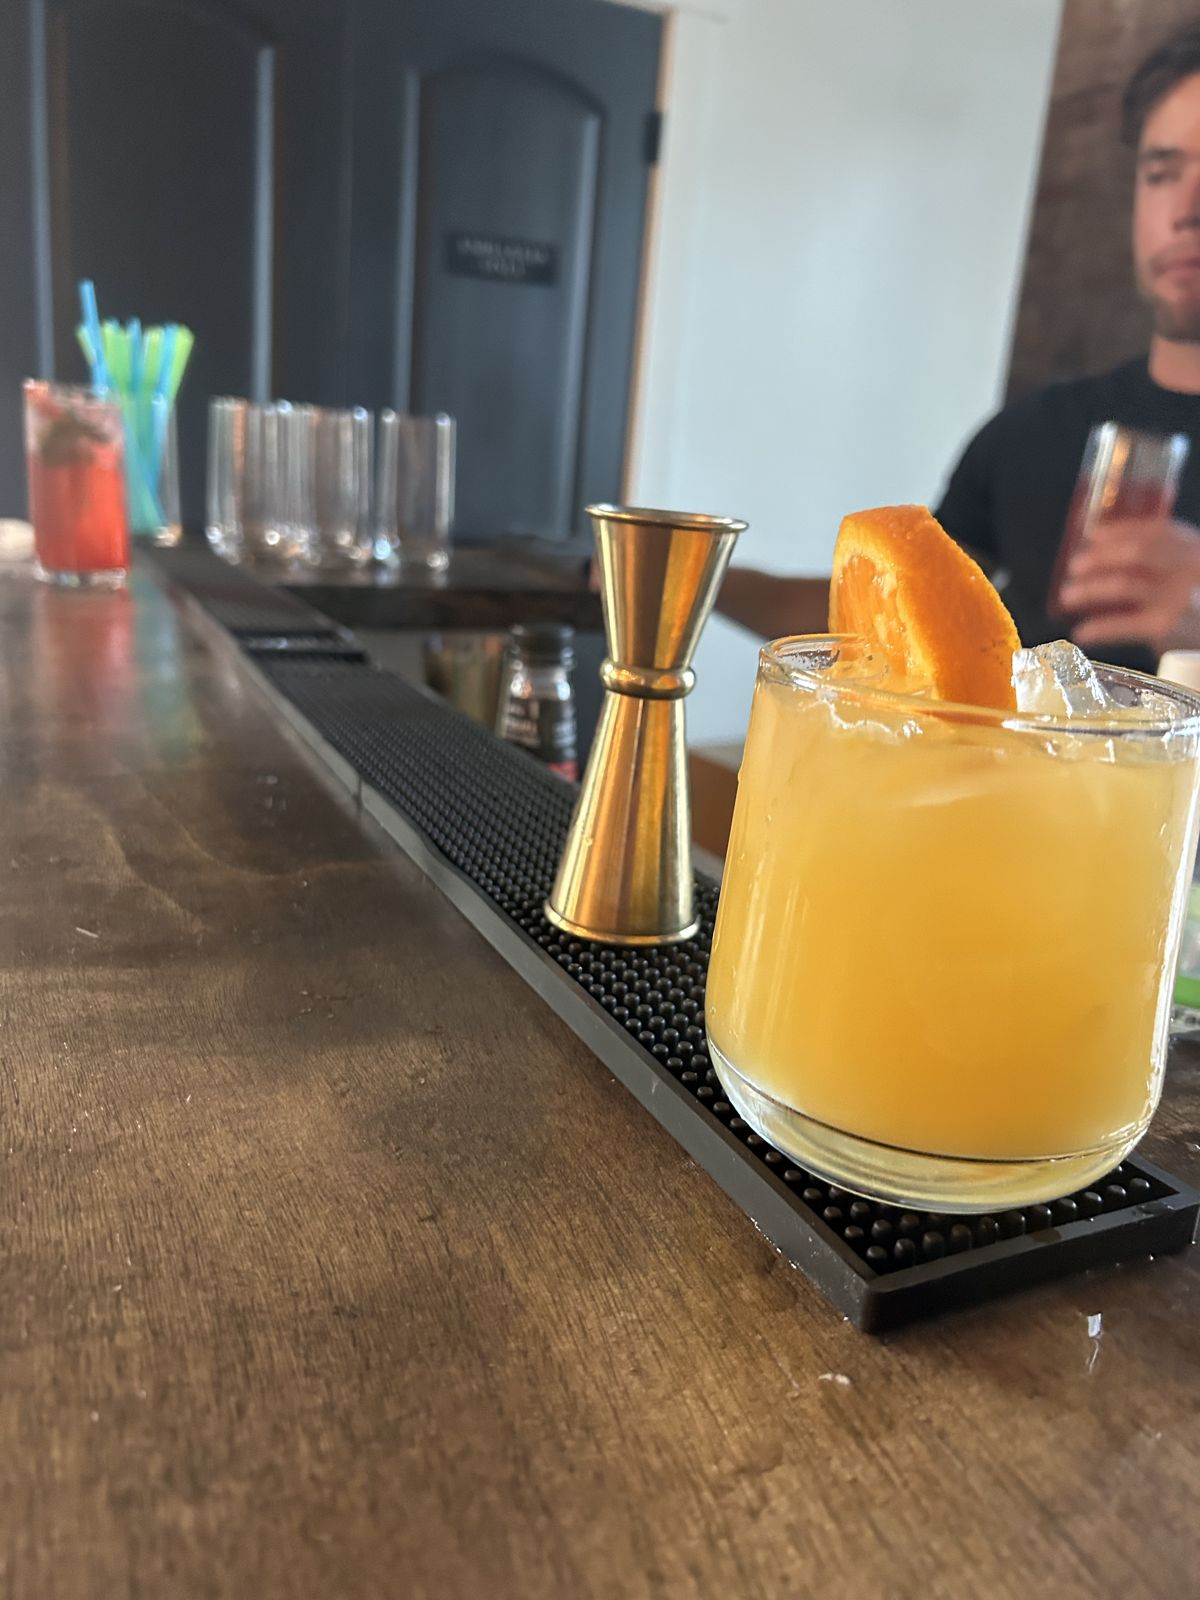
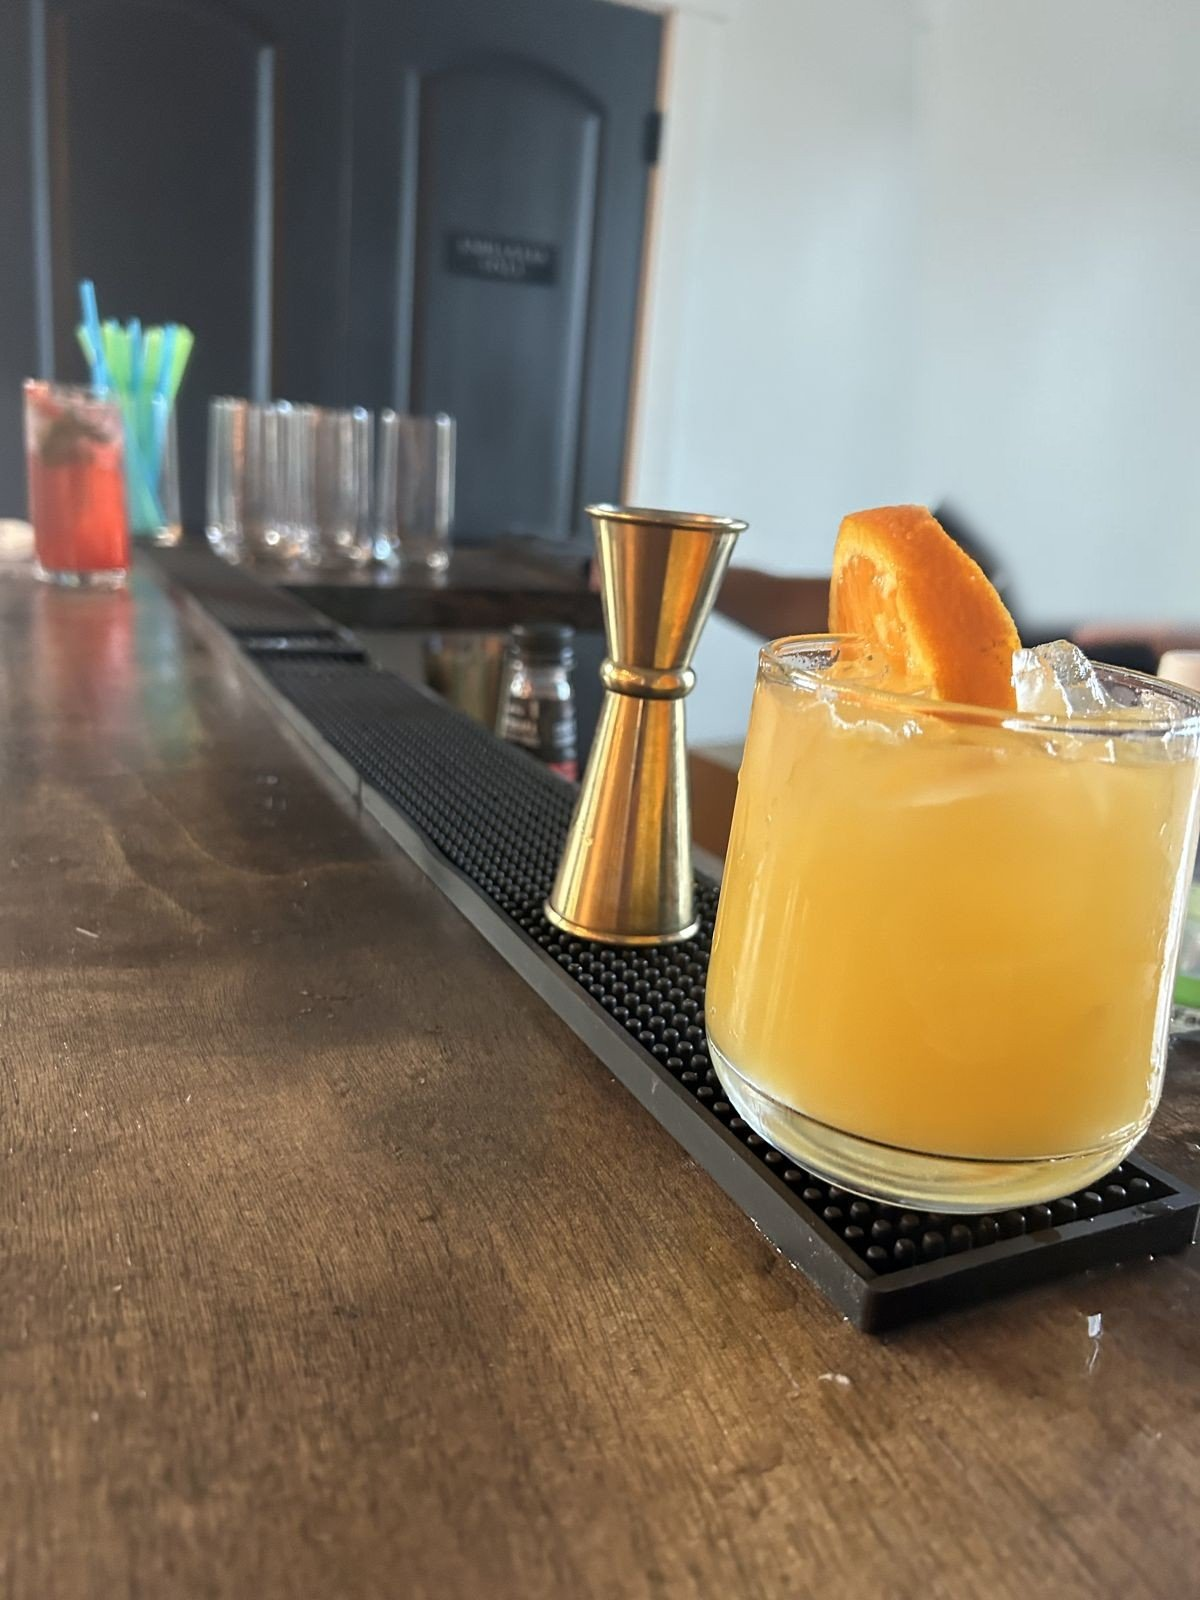
Gallery cleanup and Jake's phone and email
Remove the guy from the orange drink photo, drop the MM Skin pop-up
photo from the gallery, and add (928) 266-8863 and jakebeazer@gmail.com
to the contact section, footer and business info.

Claude-Session: https://claude.ai/code/session_019EJqkioRRRJ1GWxis8XrbV

Changed region(s): [[0.7708, 0.0, 1.0, 0.4062]]

diff --git a/gallery.html b/gallery.html
@@ -64,7 +64,6 @@
       <figure><video src="stir-loop.mp4" poster="images/stir-loop-poster.jpg" width="540" height="960" autoplay muted loop playsinline aria-label="A purple berry mocktail being stirred at a wedding"></video></figure>
       <figure><img src="images/couple-toast.jpg" alt="The bride and groom holding up their mocktails at the reception" width="1146" height="1600" loading="lazy"></figure>
       <figure><img src="images/cherry-sour.jpg" alt="Cherry Parson with a cherry garnish" width="1066" height="1600" loading="lazy"><figcaption>Cherry Parson</figcaption></figure>
-      <figure><img src="images/popup-bar.jpg" alt="Our bartender serving at a pop-up bar outside a storefront" width="1200" height="1600" loading="lazy"></figure>
       <figure><img src="images/berry-highball.jpg" alt="Lavender Lime Cooler with dried lavender and a lime wheel" width="1023" height="1537" loading="lazy"><figcaption>Lavender Lime Cooler</figcaption></figure>
       <figure><img src="images/glasses-toast.jpg" alt="Guests clinking mocktail glasses with pink straws" width="1600" height="1143" loading="lazy"></figure>
       <figure><img src="images/mint-spritz.jpg" alt="Mint Mojito with fresh mint and lime" width="1066" height="1600" loading="lazy"><figcaption>Mint Mojito</figcaption></figure>
@@ -72,8 +71,8 @@
       <figure><img src="images/dragonfruit-toast.jpg" alt="A guest holding a pink mocktail with a dragonfruit slice" width="1170" height="1552" loading="lazy"></figure>
       <figure><img src="images/bar-citrus.jpg" alt="A yellow citrus mocktail with an orange slice on the bar" width="1200" height="1600" loading="lazy"></figure>
       <figure><video src="berry-loop.mp4" poster="images/berry-loop-poster.jpg" width="540" height="960" autoplay muted loop playsinline aria-label="A blackberry garnish being set on a dark berry mocktail"></video></figure>
-      <figure><img src="images/sunset-pour.jpg" alt="A bartender straining an orange-red mocktail" width="1066" height="1600" loading="lazy"></figure>
       <figure><img src="images/jacob.jpg" alt="Jacob, our founder, holding a mocktail" width="640" height="800" loading="lazy"></figure>
+      <figure><img src="images/sunset-pour.jpg" alt="A bartender straining an orange-red mocktail" width="1066" height="1600" loading="lazy"></figure>
     </div>
   </section>
 
@@ -90,8 +89,8 @@
         </ul>
         <dl>
           <dt>Instagram</dt><dd><a class="ig-inline" href="https://www.instagram.com/utahmocktailco/"><svg class="ig" viewBox="0 0 24 24" width="18" height="18" aria-hidden="true" fill="none" stroke="currentColor" stroke-width="1.6"><rect x="3" y="3" width="18" height="18" rx="5"/><circle cx="12" cy="12" r="4.2"/><circle cx="17.4" cy="6.6" r="1.1" fill="currentColor" stroke="none"/></svg>@utahmocktailco</a></dd>
-          <dt>Email</dt><dd>hello@utahmocktail.co</dd>
-          <dt>Phone</dt><dd><span class="ph">[phone]</span></dd>
+          <dt>Email</dt><dd><a href="mailto:jakebeazer@gmail.com">jakebeazer@gmail.com</a></dd>
+          <dt>Phone</dt><dd><a href="tel:+19282668863">(928) 266-8863</a></dd>
         </dl>
       </div>
       <form id="inquiry" class="form-card" novalidate>
@@ -120,7 +119,7 @@
     <a class="ig-inline" href="https://www.instagram.com/utahmocktailco/"><svg class="ig" viewBox="0 0 24 24" width="18" height="18" aria-hidden="true" fill="none" stroke="currentColor" stroke-width="1.6"><rect x="3" y="3" width="18" height="18" rx="5"/><circle cx="12" cy="12" r="4.2"/><circle cx="17.4" cy="6.6" r="1.1" fill="currentColor" stroke="none"/></svg>@utahmocktailco</a>
   </div>
   <div class="wrap">
-    <div><strong>Utah Mocktail Co.</strong>Mobile mocktail bar based in Utah County.<br>hello@utahmocktail.co</div>
+    <div><strong>Utah Mocktail Co.</strong>Mobile mocktail bar based in Utah County.<br><a href="tel:+19282668863">(928) 266-8863</a><br><a href="mailto:jakebeazer@gmail.com">jakebeazer@gmail.com</a></div>
     <div><strong>Events</strong><a href="weddings.html">Weddings</a><br><a href="corporate.html">Corporate events</a><br><a href="#book">Showers, birthdays and graduations</a></div>
     <div><strong>Where we pour</strong>Utah County, Salt Lake, Davis, Weber, Summit, Wasatch and Southern Utah</div>
     <div><strong>&nbsp;</strong>© 2026 Utah Mocktail Co.</div>

diff --git a/index.html b/index.html
@@ -18,7 +18,8 @@
   "name": "Utah Mocktail Co.",
   "description": "Mobile mocktail bar for weddings, corporate events and parties in Utah.",
   "image": "images/capitol-bar.jpg",
-  "email": "hello@utahmocktail.co",
+  "email": "jakebeazer@gmail.com",
+  "telephone": "+1-928-266-8863",
   "priceRange": "$650-$1,995+",
   "founder": {"@type": "Person", "name": "Jacob"},
   "address": {"@type": "PostalAddress", "addressRegion": "UT", "addressCountry": "US"},
@@ -285,8 +286,8 @@
         </ul>
         <dl>
           <dt>Instagram</dt><dd><a class="ig-inline" href="https://www.instagram.com/utahmocktailco/"><svg class="ig" viewBox="0 0 24 24" width="18" height="18" aria-hidden="true" fill="none" stroke="currentColor" stroke-width="1.6"><rect x="3" y="3" width="18" height="18" rx="5"/><circle cx="12" cy="12" r="4.2"/><circle cx="17.4" cy="6.6" r="1.1" fill="currentColor" stroke="none"/></svg>@utahmocktailco</a></dd>
-          <dt>Email</dt><dd>hello@utahmocktail.co</dd>
-          <dt>Phone</dt><dd><span class="ph">[phone]</span></dd>
+          <dt>Email</dt><dd><a href="mailto:jakebeazer@gmail.com">jakebeazer@gmail.com</a></dd>
+          <dt>Phone</dt><dd><a href="tel:+19282668863">(928) 266-8863</a></dd>
         </dl>
       </div>
       <form id="inquiry" class="form-card" novalidate>
@@ -330,7 +331,7 @@
     <a class="ig-inline" href="https://www.instagram.com/utahmocktailco/"><svg class="ig" viewBox="0 0 24 24" width="18" height="18" aria-hidden="true" fill="none" stroke="currentColor" stroke-width="1.6"><rect x="3" y="3" width="18" height="18" rx="5"/><circle cx="12" cy="12" r="4.2"/><circle cx="17.4" cy="6.6" r="1.1" fill="currentColor" stroke="none"/></svg>@utahmocktailco</a>
   </div>
   <div class="wrap">
-    <div><strong>Utah Mocktail Co.</strong>Mobile mocktail bar based in Utah County.<br>hello@utahmocktail.co</div>
+    <div><strong>Utah Mocktail Co.</strong>Mobile mocktail bar based in Utah County.<br><a href="tel:+19282668863">(928) 266-8863</a><br><a href="mailto:jakebeazer@gmail.com">jakebeazer@gmail.com</a></div>
     <div><strong>Events</strong><a href="weddings.html">Weddings</a><br><a href="corporate.html">Corporate events</a><br><a href="#book">Showers, birthdays and graduations</a></div>
     <div><strong>Where we pour</strong>Utah County, Salt Lake, Davis, Weber, Summit, Wasatch and Southern Utah</div>
     <div><strong>&nbsp;</strong>© 2026 Utah Mocktail Co.</div>

diff --git a/corporate.html b/corporate.html
@@ -105,8 +105,8 @@
         </ul>
         <dl>
           <dt>Instagram</dt><dd><a class="ig-inline" href="https://www.instagram.com/utahmocktailco/"><svg class="ig" viewBox="0 0 24 24" width="18" height="18" aria-hidden="true" fill="none" stroke="currentColor" stroke-width="1.6"><rect x="3" y="3" width="18" height="18" rx="5"/><circle cx="12" cy="12" r="4.2"/><circle cx="17.4" cy="6.6" r="1.1" fill="currentColor" stroke="none"/></svg>@utahmocktailco</a></dd>
-          <dt>Email</dt><dd>hello@utahmocktail.co</dd>
-          <dt>Phone</dt><dd><span class="ph">[phone]</span></dd>
+          <dt>Email</dt><dd><a href="mailto:jakebeazer@gmail.com">jakebeazer@gmail.com</a></dd>
+          <dt>Phone</dt><dd><a href="tel:+19282668863">(928) 266-8863</a></dd>
         </dl>
       </div>
       <form id="inquiry" class="form-card" novalidate>
@@ -135,7 +135,7 @@
     <a class="ig-inline" href="https://www.instagram.com/utahmocktailco/"><svg class="ig" viewBox="0 0 24 24" width="18" height="18" aria-hidden="true" fill="none" stroke="currentColor" stroke-width="1.6"><rect x="3" y="3" width="18" height="18" rx="5"/><circle cx="12" cy="12" r="4.2"/><circle cx="17.4" cy="6.6" r="1.1" fill="currentColor" stroke="none"/></svg>@utahmocktailco</a>
   </div>
   <div class="wrap">
-    <div><strong>Utah Mocktail Co.</strong>Mobile mocktail bar based in Utah County.<br>hello@utahmocktail.co</div>
+    <div><strong>Utah Mocktail Co.</strong>Mobile mocktail bar based in Utah County.<br><a href="tel:+19282668863">(928) 266-8863</a><br><a href="mailto:jakebeazer@gmail.com">jakebeazer@gmail.com</a></div>
     <div><strong>Events</strong><a href="weddings.html">Weddings</a><br><a href="corporate.html">Corporate events</a><br><a href="#book">Showers, birthdays and graduations</a></div>
     <div><strong>Where we pour</strong>Utah County, Salt Lake, Davis, Weber, Summit, Wasatch and Southern Utah</div>
     <div><strong>&nbsp;</strong>© 2026 Utah Mocktail Co.</div>

diff --git a/packages.html b/packages.html
@@ -151,8 +151,8 @@
         </ul>
         <dl>
           <dt>Instagram</dt><dd><a class="ig-inline" href="https://www.instagram.com/utahmocktailco/"><svg class="ig" viewBox="0 0 24 24" width="18" height="18" aria-hidden="true" fill="none" stroke="currentColor" stroke-width="1.6"><rect x="3" y="3" width="18" height="18" rx="5"/><circle cx="12" cy="12" r="4.2"/><circle cx="17.4" cy="6.6" r="1.1" fill="currentColor" stroke="none"/></svg>@utahmocktailco</a></dd>
-          <dt>Email</dt><dd>hello@utahmocktail.co</dd>
-          <dt>Phone</dt><dd><span class="ph">[phone]</span></dd>
+          <dt>Email</dt><dd><a href="mailto:jakebeazer@gmail.com">jakebeazer@gmail.com</a></dd>
+          <dt>Phone</dt><dd><a href="tel:+19282668863">(928) 266-8863</a></dd>
         </dl>
       </div>
       <form id="inquiry" class="form-card" novalidate>
@@ -181,7 +181,7 @@
     <a class="ig-inline" href="https://www.instagram.com/utahmocktailco/"><svg class="ig" viewBox="0 0 24 24" width="18" height="18" aria-hidden="true" fill="none" stroke="currentColor" stroke-width="1.6"><rect x="3" y="3" width="18" height="18" rx="5"/><circle cx="12" cy="12" r="4.2"/><circle cx="17.4" cy="6.6" r="1.1" fill="currentColor" stroke="none"/></svg>@utahmocktailco</a>
   </div>
   <div class="wrap">
-    <div><strong>Utah Mocktail Co.</strong>Mobile mocktail bar based in Utah County.<br>hello@utahmocktail.co</div>
+    <div><strong>Utah Mocktail Co.</strong>Mobile mocktail bar based in Utah County.<br><a href="tel:+19282668863">(928) 266-8863</a><br><a href="mailto:jakebeazer@gmail.com">jakebeazer@gmail.com</a></div>
     <div><strong>Events</strong><a href="weddings.html">Weddings</a><br><a href="corporate.html">Corporate events</a><br><a href="#book">Showers, birthdays and graduations</a></div>
     <div><strong>Where we pour</strong>Utah County, Salt Lake, Davis, Weber, Summit, Wasatch and Southern Utah</div>
     <div><strong>&nbsp;</strong>© 2026 Utah Mocktail Co.</div>

diff --git a/weddings.html b/weddings.html
@@ -107,8 +107,8 @@
         </ul>
         <dl>
           <dt>Instagram</dt><dd><a class="ig-inline" href="https://www.instagram.com/utahmocktailco/"><svg class="ig" viewBox="0 0 24 24" width="18" height="18" aria-hidden="true" fill="none" stroke="currentColor" stroke-width="1.6"><rect x="3" y="3" width="18" height="18" rx="5"/><circle cx="12" cy="12" r="4.2"/><circle cx="17.4" cy="6.6" r="1.1" fill="currentColor" stroke="none"/></svg>@utahmocktailco</a></dd>
-          <dt>Email</dt><dd>hello@utahmocktail.co</dd>
-          <dt>Phone</dt><dd><span class="ph">[phone]</span></dd>
+          <dt>Email</dt><dd><a href="mailto:jakebeazer@gmail.com">jakebeazer@gmail.com</a></dd>
+          <dt>Phone</dt><dd><a href="tel:+19282668863">(928) 266-8863</a></dd>
         </dl>
       </div>
       <form id="inquiry" class="form-card" novalidate>
@@ -137,7 +137,7 @@
     <a class="ig-inline" href="https://www.instagram.com/utahmocktailco/"><svg class="ig" viewBox="0 0 24 24" width="18" height="18" aria-hidden="true" fill="none" stroke="currentColor" stroke-width="1.6"><rect x="3" y="3" width="18" height="18" rx="5"/><circle cx="12" cy="12" r="4.2"/><circle cx="17.4" cy="6.6" r="1.1" fill="currentColor" stroke="none"/></svg>@utahmocktailco</a>
   </div>
   <div class="wrap">
-    <div><strong>Utah Mocktail Co.</strong>Mobile mocktail bar based in Utah County.<br>hello@utahmocktail.co</div>
+    <div><strong>Utah Mocktail Co.</strong>Mobile mocktail bar based in Utah County.<br><a href="tel:+19282668863">(928) 266-8863</a><br><a href="mailto:jakebeazer@gmail.com">jakebeazer@gmail.com</a></div>
     <div><strong>Events</strong><a href="weddings.html">Weddings</a><br><a href="corporate.html">Corporate events</a><br><a href="#book">Showers, birthdays and graduations</a></div>
     <div><strong>Where we pour</strong>Utah County, Salt Lake, Davis, Weber, Summit, Wasatch and Southern Utah</div>
     <div><strong>&nbsp;</strong>© 2026 Utah Mocktail Co.</div>

diff --git a/team.html b/team.html
@@ -95,8 +95,8 @@
         </ul>
         <dl>
           <dt>Instagram</dt><dd><a class="ig-inline" href="https://www.instagram.com/utahmocktailco/"><svg class="ig" viewBox="0 0 24 24" width="18" height="18" aria-hidden="true" fill="none" stroke="currentColor" stroke-width="1.6"><rect x="3" y="3" width="18" height="18" rx="5"/><circle cx="12" cy="12" r="4.2"/><circle cx="17.4" cy="6.6" r="1.1" fill="currentColor" stroke="none"/></svg>@utahmocktailco</a></dd>
-          <dt>Email</dt><dd>hello@utahmocktail.co</dd>
-          <dt>Phone</dt><dd><span class="ph">[phone]</span></dd>
+          <dt>Email</dt><dd><a href="mailto:jakebeazer@gmail.com">jakebeazer@gmail.com</a></dd>
+          <dt>Phone</dt><dd><a href="tel:+19282668863">(928) 266-8863</a></dd>
         </dl>
       </div>
       <form id="inquiry" class="form-card" novalidate>
@@ -125,7 +125,7 @@
     <a class="ig-inline" href="https://www.instagram.com/utahmocktailco/"><svg class="ig" viewBox="0 0 24 24" width="18" height="18" aria-hidden="true" fill="none" stroke="currentColor" stroke-width="1.6"><rect x="3" y="3" width="18" height="18" rx="5"/><circle cx="12" cy="12" r="4.2"/><circle cx="17.4" cy="6.6" r="1.1" fill="currentColor" stroke="none"/></svg>@utahmocktailco</a>
   </div>
   <div class="wrap">
-    <div><strong>Utah Mocktail Co.</strong>Mobile mocktail bar based in Utah County.<br>hello@utahmocktail.co</div>
+    <div><strong>Utah Mocktail Co.</strong>Mobile mocktail bar based in Utah County.<br><a href="tel:+19282668863">(928) 266-8863</a><br><a href="mailto:jakebeazer@gmail.com">jakebeazer@gmail.com</a></div>
     <div><strong>Events</strong><a href="weddings.html">Weddings</a><br><a href="corporate.html">Corporate events</a><br><a href="#book">Showers, birthdays and graduations</a></div>
     <div><strong>Where we pour</strong>Utah County, Salt Lake, Davis, Weber, Summit, Wasatch and Southern Utah</div>
     <div><strong>&nbsp;</strong>© 2026 Utah Mocktail Co.</div>

diff --git a/README.md b/README.md
@@ -6,7 +6,7 @@ Live draft: https://utah-mocktail-site-lilac.vercel.app/ (GitHub chasemp99/utah-
 
 ## Still needed from Jacob (dashed placeholders on the page)
 - Business name to confirm: "Utah Mocktail Co." (used) vs "UtahMocktail and Co."
-- Phone, final domain (Instagram is @utahmocktailco); confirm hello@utahmocktail.co works
+- Final domain (Instagram is @utahmocktailco). Phone (928) 266-8863 and jakebeazer@gmail.com are in.
 - Jacob's photo is in (images/jacob.jpg, from Chase 2026-10-16). Still need other bartenders' names and photos; bio details (where he bartended, a favorite French classic)
 - Confirm "Cherry Parson" spelling (the four drink cards use the old site's names and photos)
 - Couple/venue name for the wedding video (with permission)
